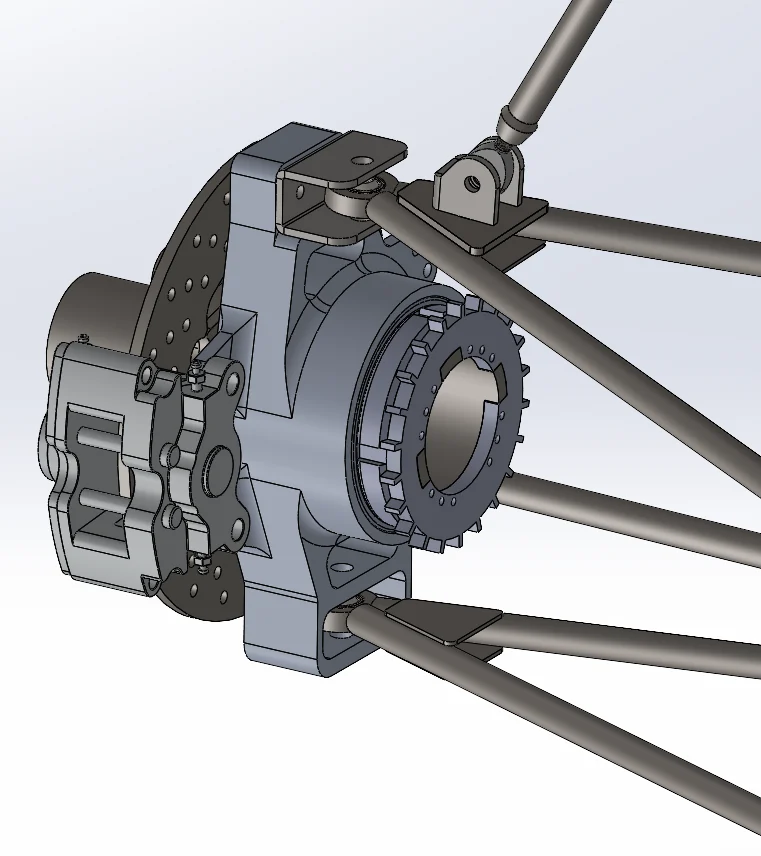
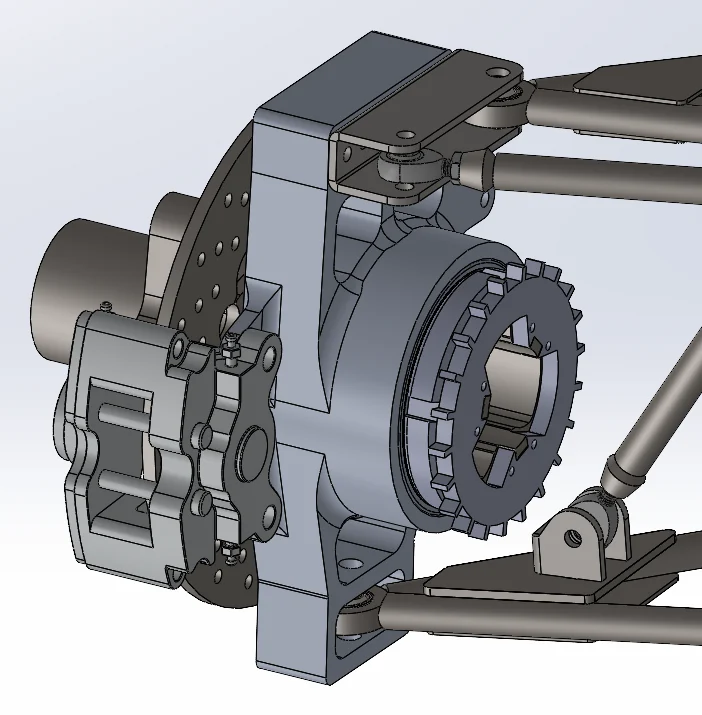
Correct the front and rear corner assembly labels
The two corner assembly renders were both captioned as rear. The first is
the front corner. Rename the files to match and give the pair parallel
captions.

diff --git a/portfolio-next/app/page.tsx b/portfolio-next/app/page.tsx
@@ -129,16 +129,16 @@ export default function Home() {
               caption: "Rear corner, with the pushrod and damper",
             },
             {
+              src: "/projects/upright/front-corner.webp",
+              alt: "Front corner assembly with rotor, caliper, and control arms",
+              fit: "contain",
+              caption: "Front corner assembly",
+            },
+            {
               src: "/projects/upright/rear-corner.webp",
               alt: "Rear corner assembly with rotor, caliper, and control arms",
               fit: "contain",
-              caption: "Rear corner assembly with rotor, caliper, and control arms",
-            },
-            {
-              src: "/projects/upright/rear-corner-2.webp",
-              alt: "Rear corner, closer on the hub and caliper",
-              fit: "contain",
-              caption: "Rear corner, closer on the hub and caliper",
+              caption: "Rear corner assembly",
             },
           ]}
         />
